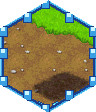
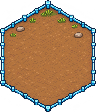
기본 케이지와 미니 체육관을 통일된 도트 공간으로 재구성

diff --git a/tools/make_hex_facilities.py b/tools/make_hex_facilities.py
@@ -126,6 +126,8 @@ def rail(im, cells, mask):
     im.putalpha(Image.composite(im.getchannel('A'), Image.new('L', im.size, 0), mask))
 
 
+# 수작업 생성 전용 이미지 보존 (내장 image_gen 편집본).
+JOBS = {k:v for k,v in JOBS.items() if k not in ('free', 'gym')}
 for name, job in JOBS.items():
     kind, number, cells = job[:3]
     mask = mask_of(cells)

diff --git a/docs/design.md b/docs/design.md
@@ -155,3 +155,5 @@
 - 양호실 테두리 편집 프롬프트(built-in image_gen): 기존 양호실 내부의 약장·시계·벤치·침대·푸른 커튼·베이지 바닥 배치를 보존하고, 외곽선만 운동장 참조와 같은 청록/파랑 분절 난간 및 정사각 기둥으로 교체. 한 칸 정육각형과 104:120 비율 유지, 모든 기둥은 경계 안쪽, 외부 투명·문자/인물 없음. 최종 파일 clinic-hex.png(104×120).
 
 - 2026-11-13 전체 시설로 확대: 나머지 시설도 같은 모양새(점유 칸을 빈틈없이 채우고 청록 난간·기둥 테두리)로 `<이름>-hex.png`를 만들었다. image_gen이 아니라 tools/make_hex_facilities.py가 원본 cmNN.png를 정육각 격자에 맞추고 테두리를 그린다. 2~3칸 미니 시설은 큰 시설 그림에서 칸을 잘라 쓰거나(미니 화산·해변·고산·숲·공장) 한 칸 그림을 칸마다 깐다(공터·미니 화원·미니 체육관). clinic-hex·field-hex는 Codex 그림 그대로.
+
+- 케이지 편집 추가(built-in image_gen): free-hex(96×112)는 청록 기둥 울타리와 흙·풀·작은 돌이 있는 열린 한 칸 휴식 공간. gym-hex(288×112)는 가로 세 육각 합집합의 외곽 울타리만 남기고 내부 경계를 없앤 연속 목재 바닥, 작은 운동 기구와 넓은 중앙 공간. 원본 그림과 운동장 스타일을 참조한 팬게임용 재구성이며 나머지 시설은 기존 변환본 유지.

diff --git a/docs/roadmap.md b/docs/roadmap.md
@@ -21,6 +21,7 @@
 | 8 | 런처 패키징 | 예정 |
 
 ### 7단계 진행 상황
+- 케이지 그림 후속 1차: 최신 7b17f3b 확인 후 기본 케이지와 미니 체육관을 양호실·운동장 스타일로 재구성. 체육관 내부 반복 울타리를 제거해 하나의 목재 훈련 공간으로 연결. 자동 변환 시 두 편집본 보존.
 - 완료: 도구 줄 그림을 주황 단색 아이콘에서 원작의 실제 도트로 교체(손 커서, 고기, 알약, 말풍선 속 주사기·반창고, 공터). 쓰다듬기 표시는 하트 대신 원작 빨간 음표 4프레임
 - 완료: 육성 도구 줄을 원작처럼 사육장 화면 안 아래쪽에 겹쳐 배치(휠이 확대·축소라 화면 밖 버튼이 불편했음). 미니맵은 오른쪽 위로 이동, 사냥 중에는 도구 줄을 숨김
 - 완료: 사냥 장비 1차 — 샷 12종(멈춤·수면·마비, 샷 건류는 범위)과 고기 미끼 2종. 사냥 화면 '장비' 버튼과 선택 목록, 상점 묶음 판매. 이름·위력은 원작 글, 효과 수치는 임시
